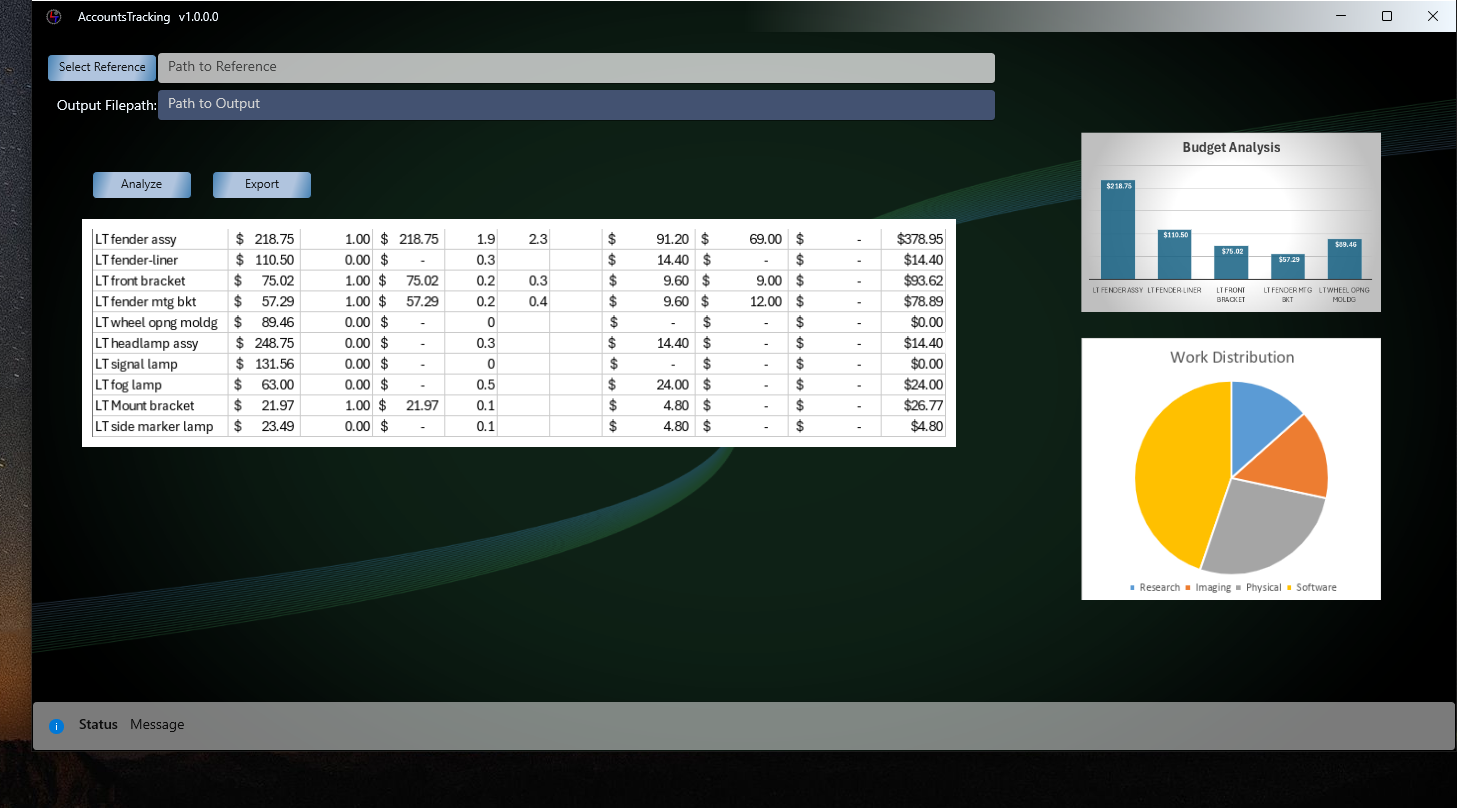
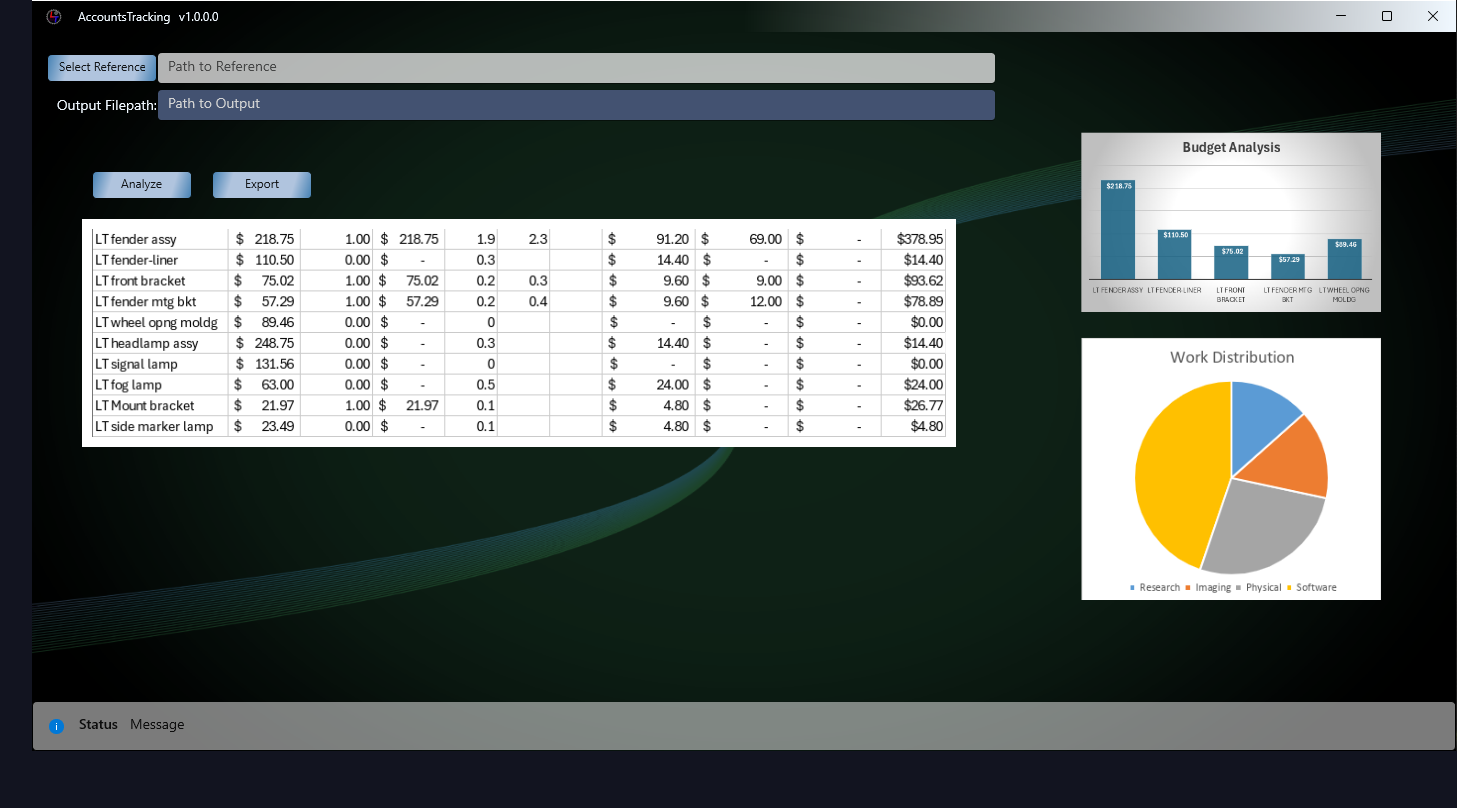
Added final portfolio card and updated some external links

Changed region(s): [[0.0, 0.0, 1.0, 1.0]]

diff --git a/index.html b/index.html
@@ -222,7 +222,7 @@
                 <div class="item-info">
                     <span class="item-tag tag-neon">Software</span>
                     <h3>Productivity Packages</h3>
-                    <p>Free Windows utility tools published on the Microsoft Store. Cross-reference massive data sources into reports instantly to save days of research, and seamlessly sync all your deadlines and events into your preferred calendar for effortless tracking.</p>
+                    <p>Free Windows utility tools published on the <a href="https://apps.microsoft.com/search/publisher?name=Lefty241" target="_blank" style="color: var(--accent-neon)">Microsoft Store</a>. Cross-reference massive data sources into reports instantly and seamlessly sync all your deadlines and events into your preferred calendar for effortless tracking.</p>
                 </div>
             </div>
 
@@ -241,13 +241,14 @@
 			
 			<!-- Item: Digital Fab (placeholder) -->
             <div class="portfolio-item art">
-                <div class="image-wrapper">
-                    <img src="images/LTlogo-bright.png" alt="fab1" class="item-img">
+                <div class="image-wrapper cycle-2">
+                    <img src="images/pawprint-card2.png" alt="fab2" class="item-img">
+					<img src="images/pawprint-card1.png" alt="fab1" class="item-img">
                 </div>                
                 <div class="item-info">
-                    <span class="item-tag tag-purple">Tech Art/Fab</span>
-                    <h3>Coming Soon</h3>
-                    <p>Not yet selected.</p>
+                    <span class="item-tag tag-purple">Tech Art</span>
+                    <h3>Customized Tech Art</h3>
+                    <p>Tech advancements are used to create enhanced art projects and physical products available in my <a href="https://www.etsy.com/shop/LefTech" target="_blank" style="color: var(--accent-purple")>Etsy Store</a>.</p>
                 </div>                
             </div>
 

diff --git a/case-study-cafe-art.html b/case-study-cafe-art.html
@@ -213,7 +213,7 @@
   <!-- Editorial Technical Core Deep Dive Story -->
   <article class="case-body-content">
     <h2>Project Summary & Architectural Workflow</h2>
-    <p>A local waterfront community cafe commissioned a collection of custom, theme-driven tabletop installations: seven distinct sets of wildlife-inspired functional ashtrays, totaling 350 physical items. The primary goal was to take source photography from the natural world and convert it smoothly into functional structural geometries without losing organic complexity.</p>
+    <p>A local waterfront community cafe commissioned a collection of custom, theme-driven tabletop installations: seven distinct sets of wildlife-inspired functional ashtrays, totaling 350 physical items. The primary goal was to take source photography from the natural world and convert it smoothly into functional structural geometries without losing organic complexity. (also available in my <a href="https://www.etsy.com/shop/LefTech" target="_blank" style="color: var(--accent-purple)">Etsy Store</a>)</p>
 
     <div class="tech-callout">
       <strong>The Technical Pipeline:</strong> Instead of manually tracing or sculpting outlines inside design packages, actual wildlife photography inputs were fed directly into custom developed C++ matrix routines with OpenCV libraries to automate structural feature discovery.

diff --git a/case-study-template.html b/case-study-template.html
@@ -230,6 +230,7 @@
     <p>Let's deploy high-performance engineering blocks onto your active business requirements channels.</p>
     <br>
     <a href="index.html#contact" style="text-decoration:none; display:inline-block;" class="back-link">Launch Project Brief Form &rarr;</a>
+	<!-- optional (p;acement may vary also): "<a href>Download the Free Sample App on the Microsoft Store &rarr;</a>" -->
   </section>
 
 </body>
